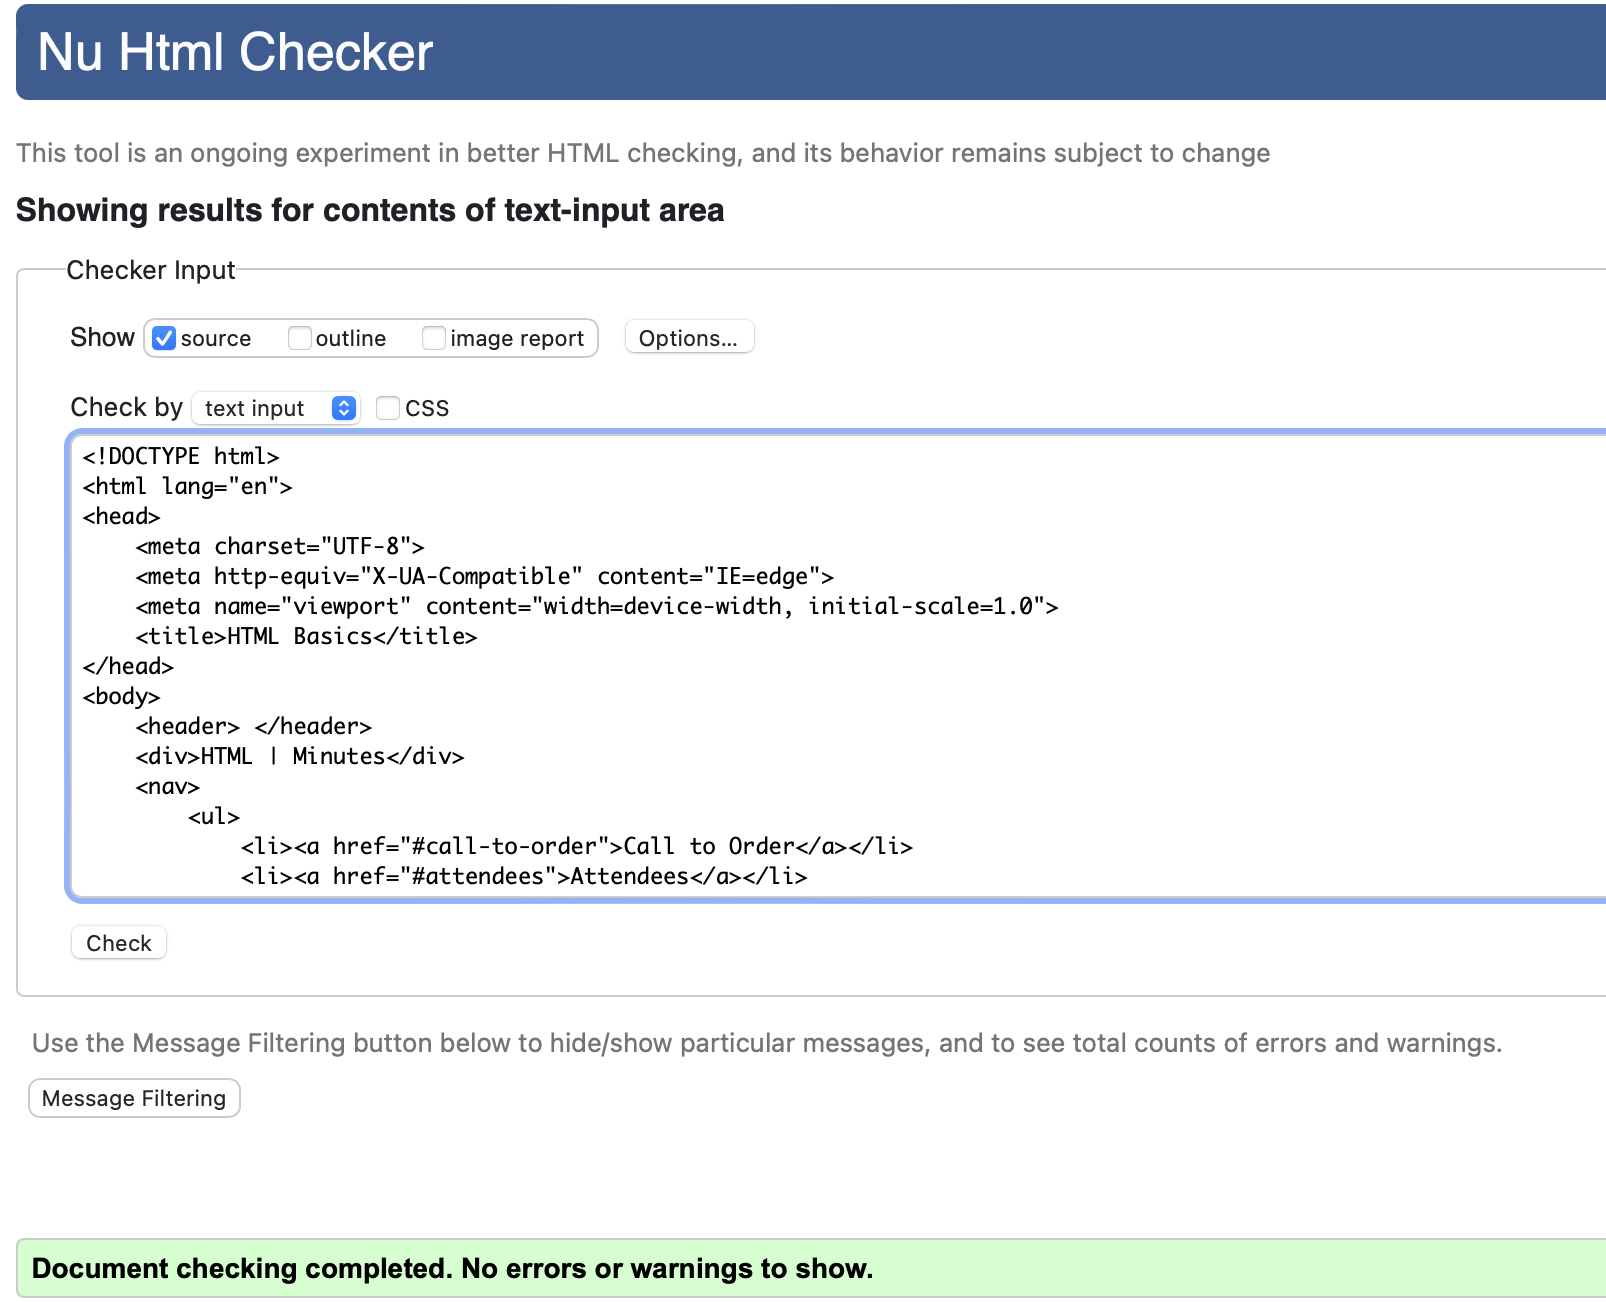
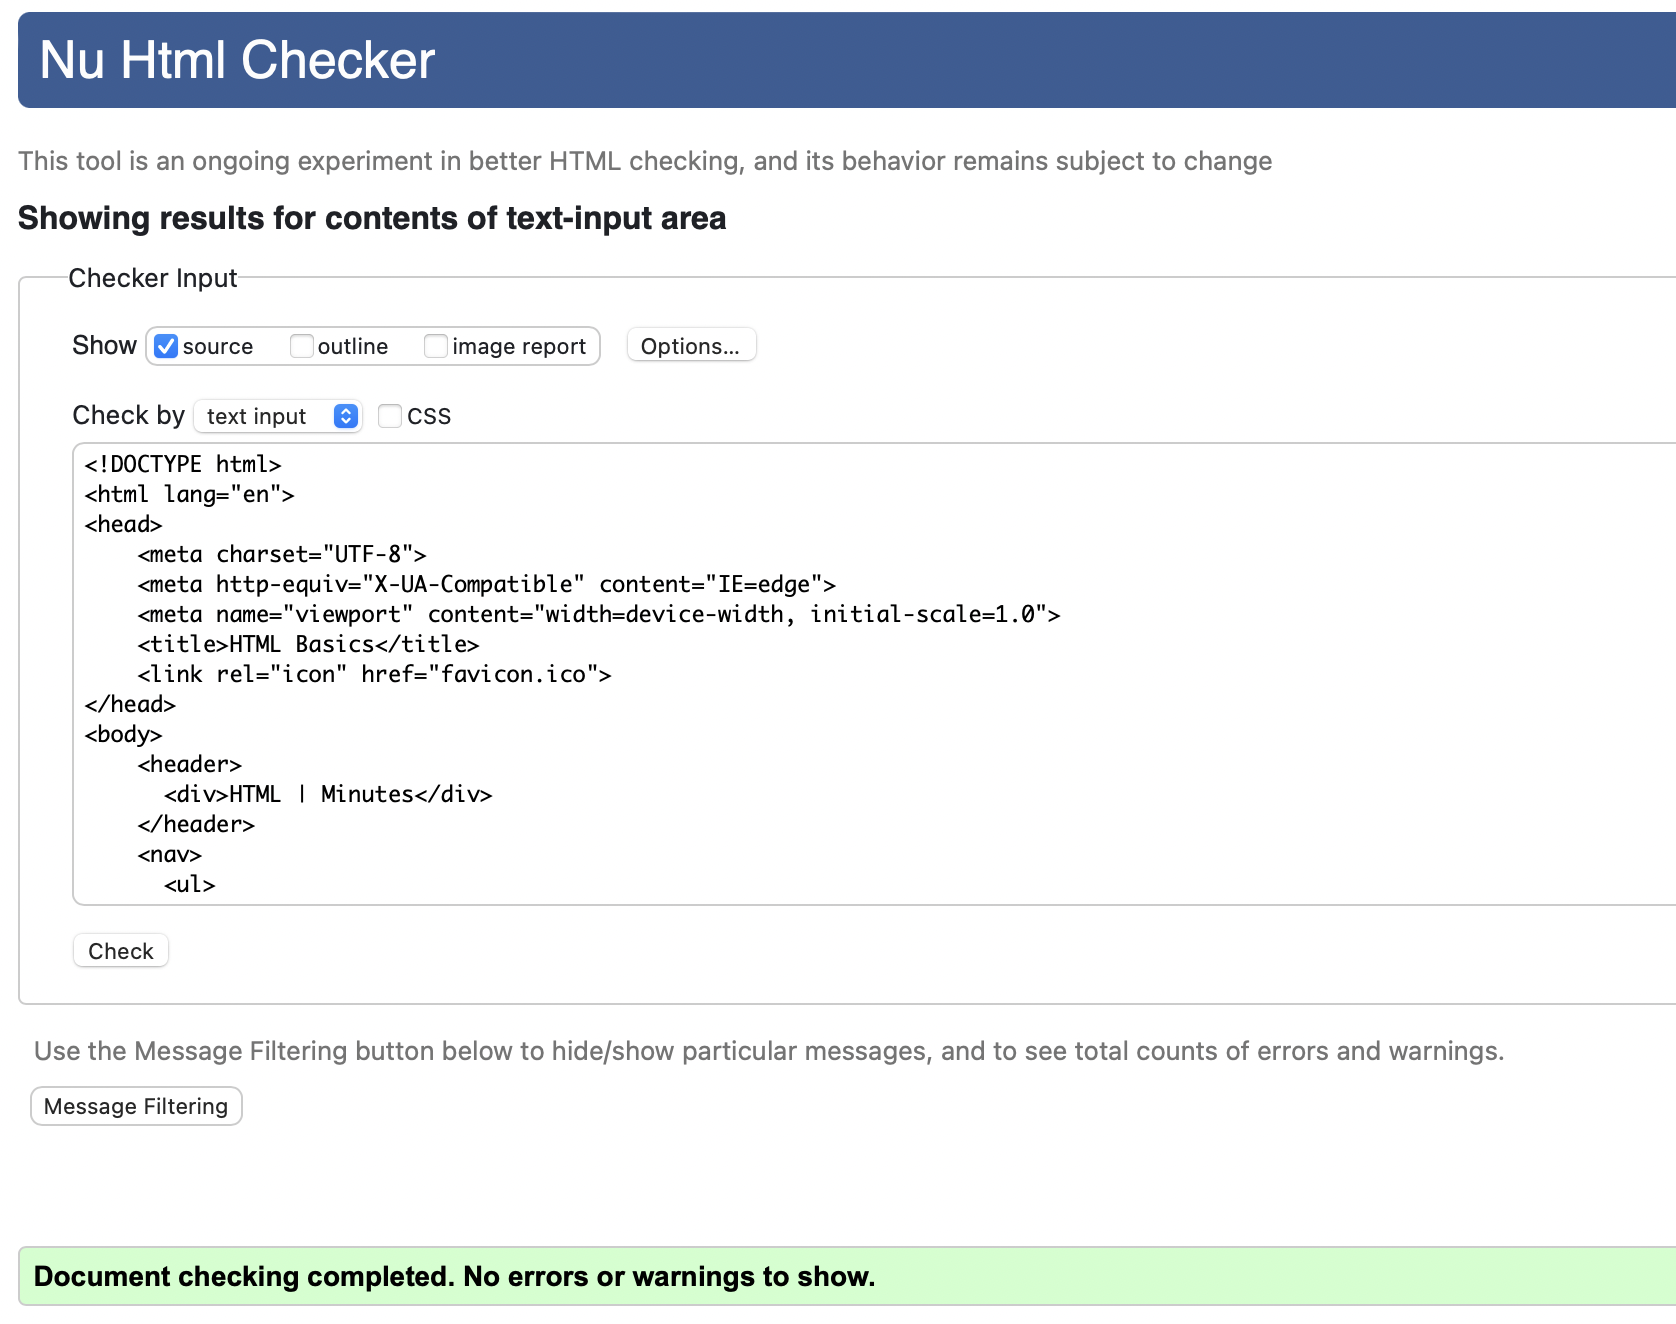
new update

diff --git a/index.html b/index.html
@@ -5,141 +5,143 @@
     <meta http-equiv="X-UA-Compatible" content="IE=edge">
     <meta name="viewport" content="width=device-width, initial-scale=1.0">
     <title>HTML Basics</title>
+    <link rel="icon" href="favicon.ico">
 </head>
 <body>
-    <header> </header>
-    <div>HTML | Minutes</div>
+    <header> 
+      <div>HTML | Minutes</div>
+    </header>
     <nav>
-     <ul>
-      <li><a href="#call-to-order">Call to Order</a></li>
-      <li><a href="#attendees">Attendees</a></li>
-      <li><a href="#agenda">Agenda</a></li>
-      <li><a href="#unfinished-business-from-last-meeting">Unfinished Business from Last Meeting</a></li>
-      <li><a href="#new-business-that-need-to-be-talked-about">New Business that Need to Be Talked About</a></li>
-      <li><a href="#miscellaneous">Miscellaneous</a></li>
-      <li><a href="#diagrams-and-architecture">Diagrams and Architecture</a></li>
-      <li><a href="#video-and-audio-recording">Video and Audio Recording</a></li>
-     </ul>
+      <ul>
+        <li><a href="#call-to-order">Call to Order</a></li>
+        <li><a href="#attendees">Attendees</a></li>
+        <li><a href="#agenda">Agenda</a></li>
+        <li><a href="#unfinished-business-from-last-meeting">Unfinished Business from Last Meeting</a></li>
+        <li><a href="#new-business-that-need-to-be-talked-about">New Business that Need to Be Talked About</a></li>
+        <li><a href="#miscellaneous">Miscellaneous</a></li>
+        <li><a href="#diagrams-and-architecture">Diagrams and Architecture</a></li>
+        <li><a href="#video-and-audio-recording">Video and Audio Recording</a></li>
+      </ul>
     </nav>
     <main>
-     <h1 id="html-|-minutes">HTML | Minutes</h1>
-     <hr>
-     <h2 id="call-to-order">Call to Order</h2>
-      <p> A meeting of CS110 students was held on Tuesday, Oct. 4, 2022, at 4 p.m. in WLH 2001</p>
-     <h2 id="attendees">Attendees</h2>
-     <h3 id="members-present">Members Present</h3>
-      <ol>
-      <li>Richard Heriawan</li>
-      <li>John Mayer</li>
-      <li>Ariana Grande</li>
-      <li>Nicki Minaj</li>
-      </ol>
-     <h3 id="member-apology">Member Apologies</h3>
-      <ol>
-       <li>Justin Bieber</li>
-      </ol>
-     <h2 id="agenda">Agenda</h2>
-      <ol>
-       <li>To <b>discuss</b> the basics of HTML</li>
-       <li>To <b>understand</b> how to create our own webs</li>
-      </ol>
-     <h2 id="unfinished-business-from-last-meeting">Unfinished Business from Last Meeting</h2>
-      <ol>
-       <li>TAs/tutors introduction</li>
-       <li>Examples of HTML webpage</li>
-      </ol>
-     <h2 id="new-business-that-need-to-be-talked-about">New Business that Need to Be Talked About</h2>
-      <ol>
-       <li>Tips and tricks that are useful in HTML</li>
-       <li>Common mistakes in HTML</li>
-      </ol>
-     <h2 id="miscellaneous">Miscellaneous</h2>
-     <section>
-     <h3 id="comments">Comments</h3>
-      <details>
-       <summary> <strong>What are comments?</strong></summary>
-        <div>
-         any thoughts about previous meeting that feel unclear to you.
-        </div>
-      </details>
-     <form>
-      <label for="comment">type here:</label>
-       <input type="text" id="comment" name="comment" placeholder="any comments" required>
-        <span>
-         <input type="reset">
-         <input type="submit">
-        </span>
-     </form>
-     <h3 id="question">Questions</h3>
-      <details>
-       <summary> <strong>Any quetions?</strong> </summary>
-        <div>
-         any questions you want to ask.
-        </div>
-      </details>
-     <form>
-      <label for="questions">type here:</label>
-       <input type="text" id="questions" name="question" placeholder="any questions" required>
-        <span>
-         <input type="reset">
-         <input type="submit">
-        </span>
-     </form>
-     <h3 id="concerns">Concerns</h3>
-      <details>
-       <summary> <strong>Any concerns?</strong></summary>
-        <div>
-         any materials or matters you are worried about.
-        </div>
-      </details>
-     <form>
-      <textarea></textarea>
-      <br>
-      <span>
-       <input type="reset">
-       <input type="submit">
-      </span>
-     </form>
-     <h3 id="rate">How <i>confident</i> are you in this topic?</h3>
+      <h1 id="html-|-minutes">HTML | Minutes</h1>
+      <hr>
+      <h2 id="call-to-order">Call to Order</h2>
+        <p> A meeting of CS110 students was held on Tuesday, Oct. 4, 2022, at 4 p.m. in WLH 2001</p>
+      <h2 id="attendees">Attendees</h2>
+      <h3 id="members-present">Members Present</h3>
+        <ol>
+          <li>Richard Heriawan</li>
+          <li>John Mayer</li>
+          <li>Ariana Grande</li>
+          <li>Nicki Minaj</li>
+        </ol>
+      <h3 id="member-apology">Member Apologies</h3>
+        <ol>
+          <li>Justin Bieber</li>
+        </ol>
+      <h2 id="agenda">Agenda</h2>
+        <ol>
+          <li>To <b>discuss</b> the basics of HTML</li>
+          <li>To <b>understand</b> how to create our own webs</li>
+        </ol>
+      <h2 id="unfinished-business-from-last-meeting">Unfinished Business from Last Meeting</h2>
+        <ol>
+          <li>TAs/tutors introduction</li>
+          <li>Examples of HTML webpage</li>
+        </ol>
+      <h2 id="new-business-that-need-to-be-talked-about">New Business that Need to Be Talked About</h2>
+        <ol>
+          <li>Tips and tricks that are useful in HTML</li>
+          <li>Common mistakes in HTML</li>
+        </ol>
+      <h2 id="miscellaneous">Miscellaneous</h2>
+      <section>
+      <h3 id="comments">Comments</h3>
+        <details>
+          <summary> <strong>What are comments?</strong></summary>
+          <div>
+             any thoughts about previous meeting that feel unclear to you.
+          </div>
+        </details>
       <form>
-       <label for="ratings">Choose one:</label>
-       <select id="ratings">
-        <option value="ratings">Please Select</option>
-        <option value="ratings">Not Confident</option>
-        <option value="ratings">Confident</option>
-        <option value="ratings">Very Confident</option>
-        <option value="ratings">Super Confident</option>
-       </select>
+        <label for="comment">type here:</label>
+        <input type="text" id="comment" name="comment" placeholder="any comments" required>
+        <span>
+          <input type="reset">
+          <input type="submit">
+        </span>
       </form>
-     <h3 id="topic">Tell me your favorite topic in This Meeting?</h3>
+      <h3 id="question">Questions</h3>
+        <details>
+          <summary> <strong>Any quetions?</strong> </summary>
+          <div>
+             any questions you want to ask.
+          </div>
+        </details>
+      <form>
+        <label for="questions">type here:</label>
+          <input type="text" id="questions" name="question" placeholder="any questions" required>
+        <span>
+          <input type="reset">
+          <input type="submit">
+        </span>
+      </form>
+      <h3 id="concerns">Concerns</h3>
+        <details>
+          <summary> <strong>Any concerns?</strong></summary>
+          <div>
+             any materials or matters you are worried about.
+          </div>
+        </details>
+      <form>
+         <textarea></textarea>
+         <br>
+        <span>
+          <input type="reset">
+          <input type="submit">
+        </span>
+      </form>
+      <h3 id="rate">How <i>confident</i> are you in this topic?</h3>
+      <form>
+        <label for="ratings">Choose one:</label>
+        <select id="ratings">
+          <option value="ratings">Please Select</option>
+          <option value="ratings">Not Confident</option>
+          <option value="ratings">Confident</option>
+          <option value="ratings">Very Confident</option>
+          <option value="ratings">Super Confident</option>
+        </select>
+       </form>
+      <h3 id="topic">Tell me your favorite topic in This Meeting?</h3>
       <label for="topics"> Enter a topic:</label>
       <input type="text" name="topics" id="topics" list="topicList">
-       <datalist id="topicList">
+      <datalist id="topicList">
         <option>HTML Tags</option>
         <option>The History of HTML</option>
         <option>HTML Attributes</option>
-       </datalist>
+      </datalist>
       </section>
      <h2 id="diagrams-and-architecture">Diagrams and Architecture</h2>
-      <img src="http://www.htmldrive.net/media/2010/11/24/1290582083.jpg" alt="browser usage" width="300">
-      <img src="https://geobgu.xyz/web-mapping/images/web-server-dynamic.png" alt="browser usage" width="400">
+       <img src="http://www.htmldrive.net/media/2010/11/24/1290582083.jpg" alt="browser usage" width="300">
+       <img src="https://geobgu.xyz/web-mapping/images/web-server-dynamic.png" alt="browser usage" width="400">
      <h2 id="video-and-audio-recording">Video and Audio Recording</h2>
-      <audio controls>
-      <source src="Audio-Recording-The-Meeting.mp3" type="audio/mp3">
+       <audio controls>
+       <source src="Audio-Recording-The-Meeting.mp3" type="audio/mp3">
      </audio>
-     <br>
+       <br>
      <video width="400" controls>
-      <source src="Video-Recording-The-Meeting.mp4" type="video/mp4">
-     </video>
+       <source src="Video-Recording-The-Meeting.mp4" type="video/mp4">
+       </video>
     </main>
     <footer>
-     <fieldset> 
-      <legend>Contact us</legend>
-       <input type="number" placeholder="phone number">
-       <br>
-       <br>
-       <input type="email" placeholder="email">
-     </fieldset>
+      <fieldset> 
+        <legend>Contact us</legend>
+        <input type="number" placeholder="phone number">
+        <br>
+        <br>
+        <input type="email" placeholder="email">
+      </fieldset>
       <p>This is the end of the page.</p>
       <button>close page</button>
     </footer>
